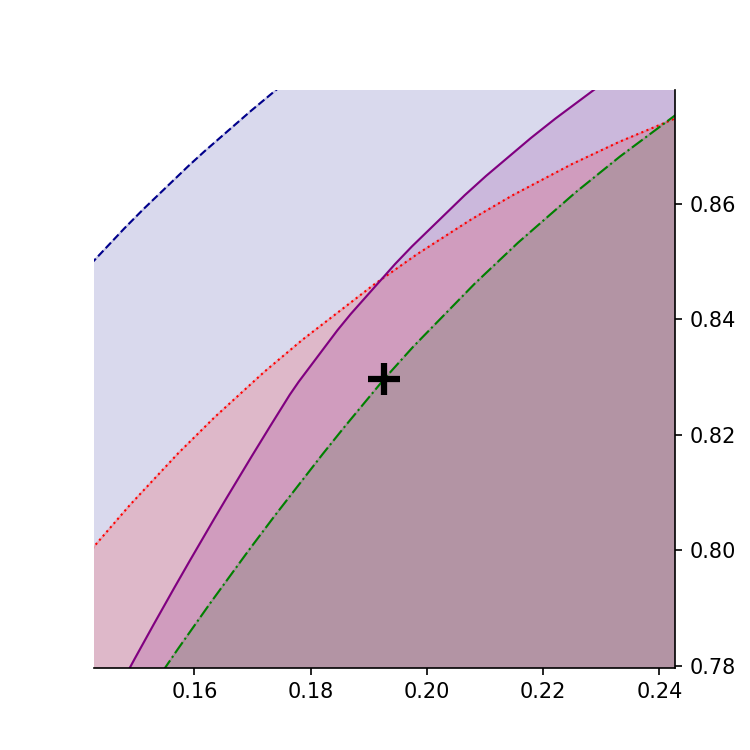
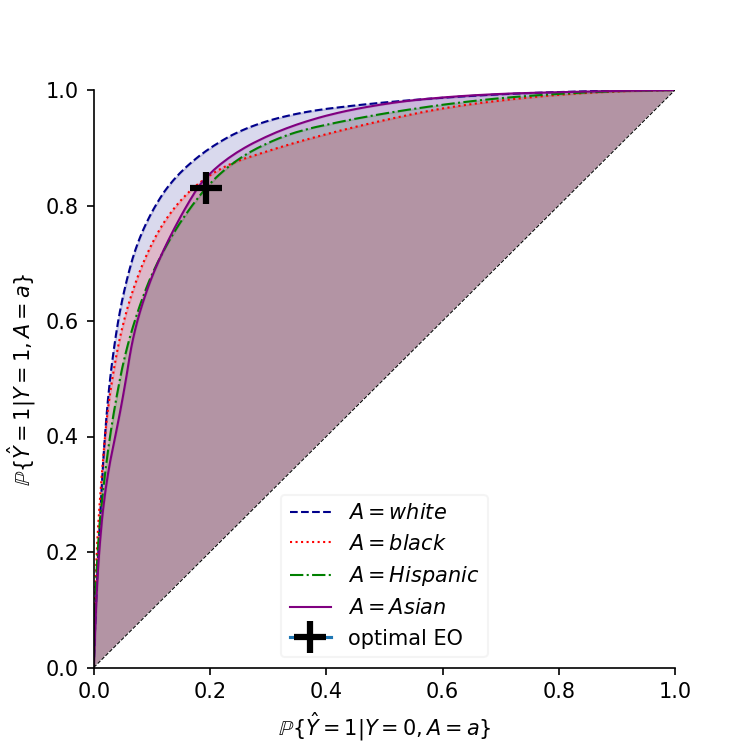
plotting stuff and save some data

diff --git a/max_equalised_odds.py b/max_equalised_odds.py
@@ -96,16 +96,20 @@ for i in range(0,4):
         FP_con = testf
         TP_con = testt
 
+np.save('FPR.npy', FPR)
+np.save('TPR.npy', TPR)
+np.save('FP_con.npy', [FP_con])
+np.save('TP_con.npy', [TP_con])
 style = ["dashed", "dotted", "dashdot", "solid"]
 groups = ["white", "black", "Hispanic", "Asian"]
 colours = ['darkblue', 'red', 'green', 'purple']
 x = np.linspace(0, 1, len(FPR[:, 0]))
 y = np.linspace(1, 0, len(FPR[:, 0]))
 plt.figure(figsize=(5, 5), dpi=150)
-plt.rcParams['axes.spines.left'] = False
+plt.rcParams['axes.spines.right'] = False
 plt.rcParams['axes.spines.top'] = False
-plt.rcParams['ytick.left'] = plt.rcParams['ytick.labelleft'] = False
-plt.rcParams['ytick.right'] = plt.rcParams['ytick.labelright'] = True
+#plt.rcParams['ytick.left'] = plt.rcParams['ytick.labelleft'] = False
+#plt.rcParams['ytick.right'] = plt.rcParams['ytick.labelright'] = True
 for a in range(0, 4):
     plt.plot(FPR[:, a], TPR[:, a], linewidth=1, linestyle=style[a], label=r"$A={}$".format(groups[a]), color=colours[a])
     plt.fill_between(FPR[:, a], TPR[:, a], alpha=0.15, color=colours[a])
@@ -113,16 +117,16 @@ for a in range(0, 4):
 
 plt.plot(x, x, linestyle='--', color='black', linewidth=0.5)
 # plt.plot(x, y, linestyle='--', color='black', linewidth=0.5)
-#plt.xlabel(r"$\mathbb{P}\{\hat{Y}=1|Y=0, A=a\}$")
-#plt.ylabel(r"$\mathbb{P}\{\hat{Y}=1|Y=1, A=a\}$")
+plt.xlabel(r"$\mathbb{P}\{\hat{Y}=1|Y=0, A=a\}$")
+plt.ylabel(r"$\mathbb{P}\{\hat{Y}=1|Y=1, A=a\}$")
 plt.plot([FP_con], [TP_con], marker="+", markersize=15, markeredgecolor="black",
          markerfacecolor="black",
-         label="Optimal EO", mew=3, )
+         label="optimal EO", mew=3, )
 plt.xlim([FP_con-0.05, FP_con+0.05])
 plt.ylim([TP_con-0.05, TP_con+0.05])
-#plt.xlim([0, 1])
-#plt.ylim([0, 1])
-#plt.legend(loc='lower center', fancybox=True, framealpha=0.2)
+plt.xlim([0, 1])
+plt.ylim([0, 1])
+plt.legend(loc='lower center', fancybox=True, framealpha=0.2)
 if save:
     plt.savefig("graphs/ROCcurvefull")
 plt.show()
@@ -423,8 +427,7 @@ if brute:
     print("Accuracy: {}%".format(np.round(100 * acc, 4)))
     """print("Percent of max profit: {}%".format(np.round(100 * profit /
                                                        (profits[A]), 8)))"""
-    inflex = (-(np.sqrt(75 * best_prob**2 - 75*best_prob + 19) - 15*best_prob + 7) /
-                              (30*best_prob - 15)) * (best_T1 - best_T0) + best_T0
+    inflex = (-7+15*best_prob + np.sqrt(76*best_prob**2 - 75*best_prob))
     lip1 = np.abs(
         funcs.phi_smooth(best_T0, best_T1, best_prob, inflex) - funcs.phi_smooth(best_T0, best_T1, best_prob,
                                                                            inflex + eps)) / eps
@@ -433,6 +436,11 @@ if brute:
                                                                            inflex - eps)) / eps
 
     lip = np.max([lip1, lip2])
+    if best_prob == 0.5:
+        inflex = 0.5*(best_T1 - best_T0) + best_T0
+        lip = np.abs(
+        funcs.phi_smooth(best_T0, best_T1, best_prob, inflex) - funcs.phi_smooth(best_T0, best_T1, best_prob,
+                                                                           inflex - eps)) / eps
     print("Lipschitz Constant: {}".format(np.round(lip, 6)))
     print("------------------------------------------")
 

diff --git a/plotter.py b/plotter.py
@@ -5,12 +5,12 @@ import sys
 import matplotlib.pyplot as plt
 import warnings
 
-T0s = [22.5, 17.0, 15.0, 17.0, 16.0]
-T1s = [35.0, 31.5, 35.5, 33.0, 36.0]
-probs = [0.78, 0.44, 0.51, 0.49, 0.54]
+T0s = [36.5, 33.0, 28.0, 29.5, 29.0]
+T1s = [51.5, 56.5, 55.0, 49.0, 55.0]
+probs = [0.75, 0.70, 0.55, 0.45, 0.57]
 curves = [0, funcs.phi, funcs.phi_quad, funcs.phi_cube, funcs.phi_smooth]
 scores = np.linspace(0, 100, 201)
-labels = ['Fixed', 'Linear', 'Quadratic', 'Cubic', r'$4^{th}$ Order']
+labels = ['fixed', 'linear', 'quadratic', 'cubic', r'$4^{th}$ order']
 nrow = 5
 ncol = 1;
 fig, axs = plt.subplots(nrows=nrow, ncols=ncol, sharey=True, sharex=True, figsize=(4/1.4, 6/1.4), dpi=180)
@@ -39,6 +39,6 @@ for i in range(0, len(T0s)):
 
 plt.xlim([0, 100])
 plt.ylim([0, 1.00001])
-plt.xlabel(r'Credit Scores $r$')
-fig.text(0.04, 0.5, r'$\mathbb{P}\{f(X)=1|A=black, R=r\}$', va='center', rotation='vertical')
+plt.xlabel(r'Credit Score')
+fig.text(0.04, 0.5, r'$\mathbb{P}\{f(X)=1|A=Asian, R=r\}$', va='center', rotation='vertical')
 plt.show()
